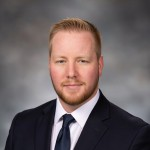
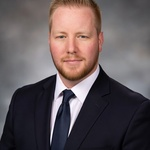
Updated profile images and adjust variant widths
- Added new profile images in AVIF, JPG, and WEBP formats for various sizes (150w, 240w, and 80w) for profiles with IDs 69c5d0d301d929, 69c5d5cc031480, 69c5ddeeb49a91, 69c5deae898470, 69c5df61cd5276, and 69c5dfbf169170.
- Removed outdated 360w profile images in JPG and WEBP formats.
- Updated the PROFILE_VARIANT_WIDTHS constant in profile_controller.php to include 240w as a new size option.

diff --git a/src/Controllers/profile_controller.php b/src/Controllers/profile_controller.php
@@ -19,7 +19,7 @@ class ProfileController extends BaseController
 
     private const int MAX_IMAGE_BYTES = 5 * 1024 * 1024;
 
-    private const array PROFILE_VARIANT_WIDTHS = [360, 150, 80];
+    private const array PROFILE_VARIANT_WIDTHS = [240, 150, 80];
 
     private const array ALLOWED_MIMES = ['image/jpeg', 'image/png', 'image/webp'];
 
